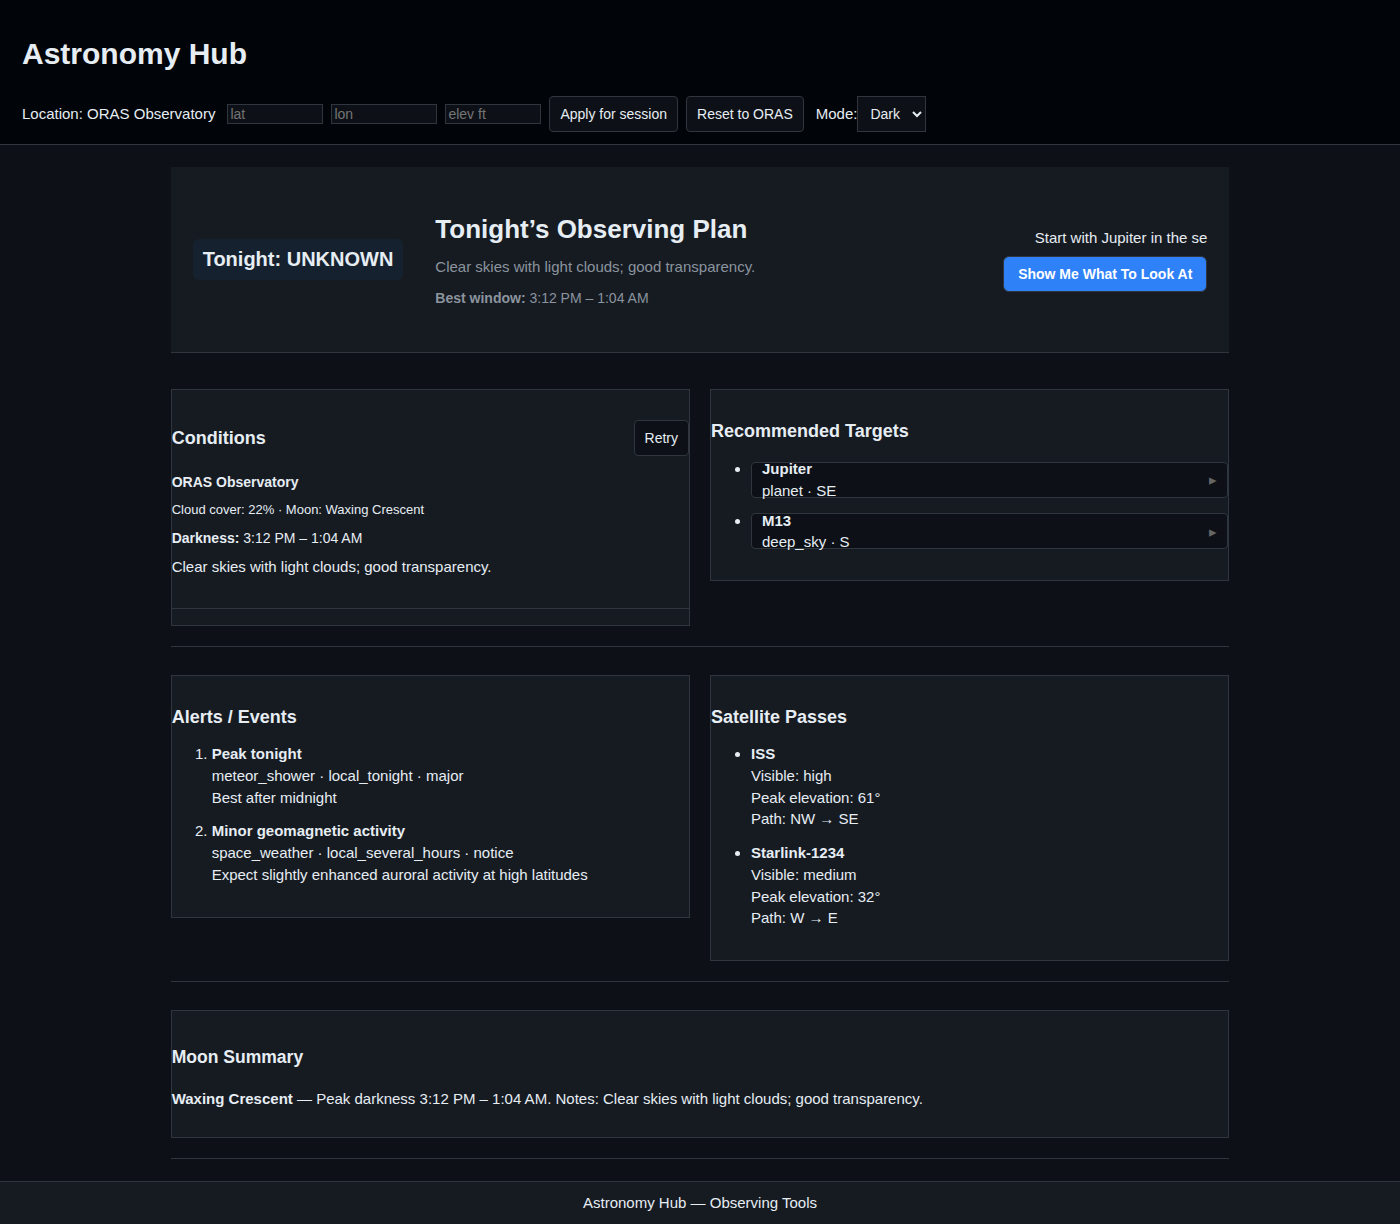
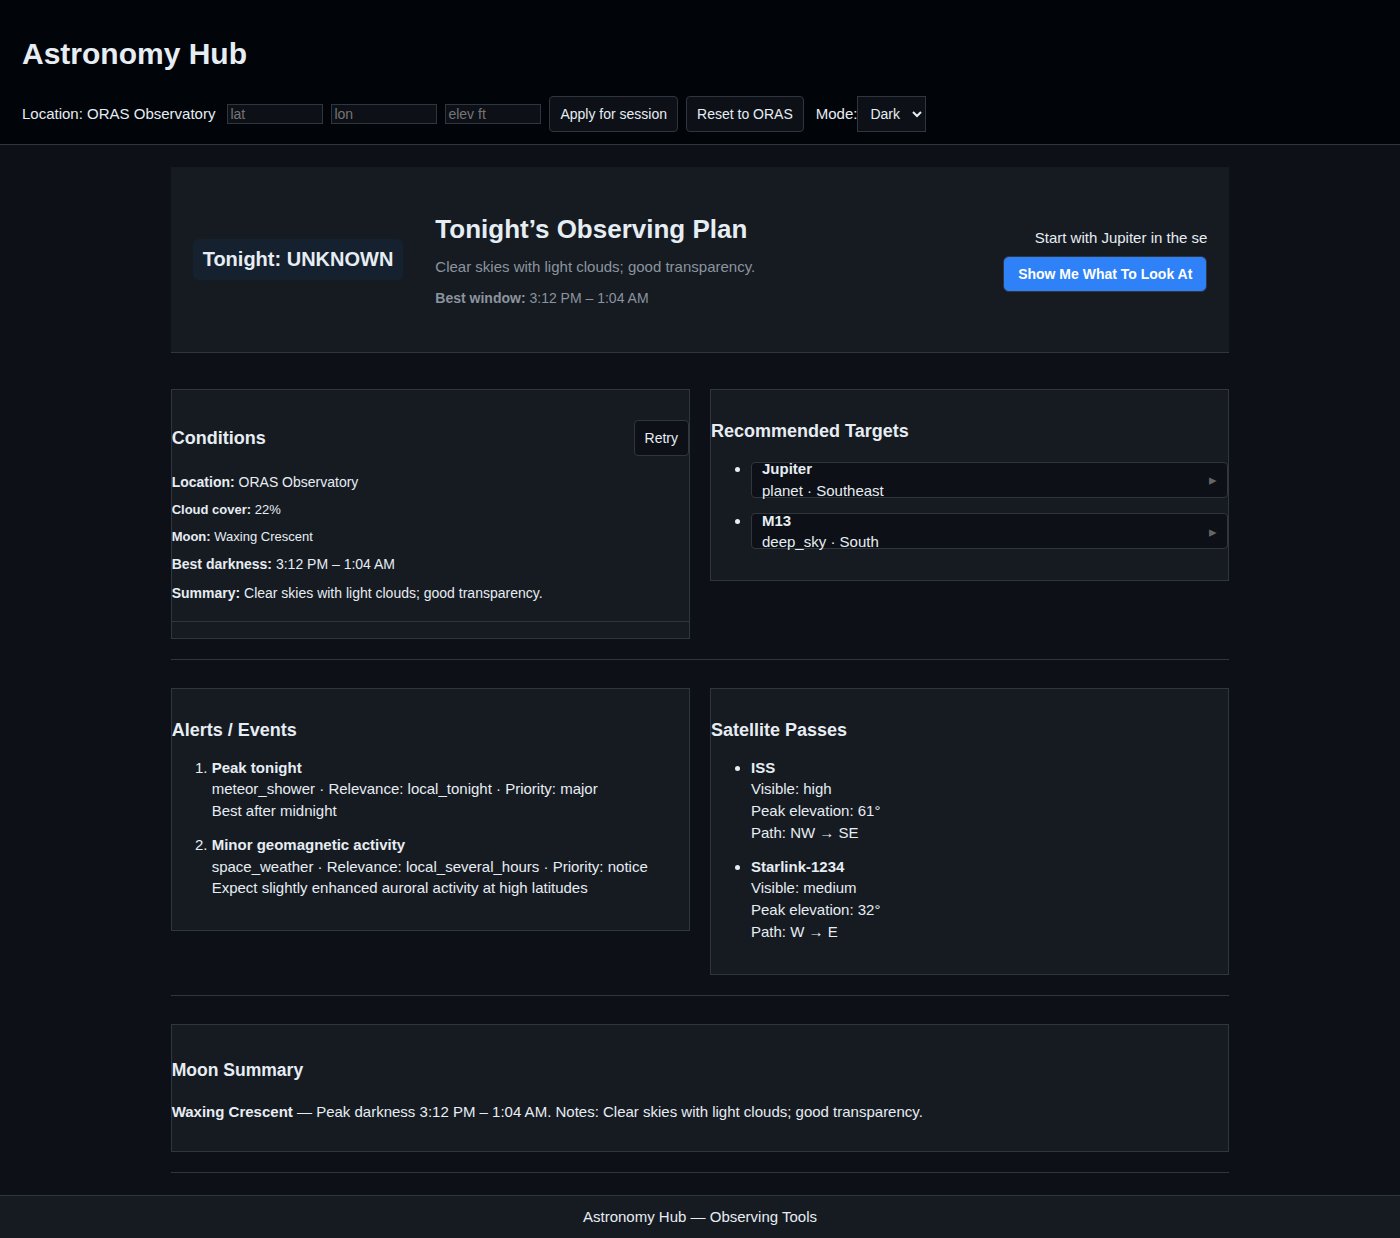
feat(ui): polish conditions, expand directions, and tidy alert metadata; update screenshots

diff --git a/frontend/src/components/Conditions.jsx b/frontend/src/components/Conditions.jsx
@@ -139,21 +139,13 @@ export default function Conditions({ locationQuery = '' }) {
   return (
     <ModuleShell title="Conditions" stale={staleProp} onRetry={handleRetry}>
       <div className="conditions-body">
-        <div className="cond-row">
-          <strong>{location_label}</strong>
-        </div>
-        <div className="cond-row small">
-          {typeof cloud_cover_pct === 'number' ? `Cloud cover: ${Math.round(cloud_cover_pct)}%` : 'Cloud cover: N/A'}
-          {' · '}
-          {moon_phase ? `Moon: ${moon_phase}` : 'Moon: N/A'}
-        </div>
+        <div className="cond-row"><strong>Location:</strong> {location_label || 'Unknown'}</div>
+        <div className="cond-row small"><strong>Cloud cover:</strong> {typeof cloud_cover_pct === 'number' ? `${Math.round(cloud_cover_pct)}%` : 'N/A'}</div>
+        <div className="cond-row small"><strong>Moon:</strong> {moon_phase || 'N/A'}</div>
 
-        <div className="cond-row">
-          <strong>Darkness:</strong>{' '}
-          {darkness_window?.start && darkness_window?.end ? `${fmtTimeShort(darkness_window.start)} – ${fmtTimeShort(darkness_window.end)}` : 'Not available'}
-        </div>
+        <div className="cond-row"><strong>Best darkness:</strong> {darkness_window?.start && darkness_window?.end ? `${fmtTimeShort(darkness_window.start)} – ${fmtTimeShort(darkness_window.end)}` : 'Not available'}</div>
 
-        {summary ? <p className="cond-summary">{summary}</p> : <p className="cond-summary muted">No short summary available.</p>}
+        <div className="cond-row"><strong>Summary:</strong> {summary ? <span className="cond-summary">{summary}</span> : <span className="cond-summary muted">No short summary available.</span>}</div>
       </div>
     </ModuleShell>
   )

diff --git a/frontend/src/components/TargetRow.jsx b/frontend/src/components/TargetRow.jsx
@@ -3,12 +3,28 @@ import React from 'react'
 import InlineExpansion from './common/InlineExpansion'
 import TargetDetail from './TargetDetail'
 
+function expandDirection(dir) {
+  if (!dir) return ''
+  const map = {
+    N: 'North',
+    NE: 'Northeast',
+    E: 'East',
+    SE: 'Southeast',
+    S: 'South',
+    SW: 'Southwest',
+    W: 'West',
+    NW: 'Northwest',
+  }
+  return map[dir.toUpperCase()] || dir
+}
+
 export default function TargetRow({ target }) {
+
   const summary = (
     <div className="target-summary">
       <strong>{target.name}</strong>
       <div className="small">
-        {target.category} · {target.direction}
+        {target.category} · {expandDirection(target.direction)}
       </div>
     </div>
   )

diff --git a/frontend/src/components/AlertsEvents.jsx b/frontend/src/components/AlertsEvents.jsx
@@ -46,7 +46,7 @@ export default function AlertsEvents({ locationQuery = '' }) {
           {alerts.map((a, idx) => (
             <li key={a.title || idx} className="alert-item">
               <strong>{a.title}</strong>
-              <div className="small muted-meta">{a.category} · {a.relevance} · {a.priority}</div>
+              <div className="small muted-meta">{a.category} · Relevance: {a.relevance} · Priority: {a.priority}</div>
               <p>{a.summary}</p>
             </li>
           ))}
